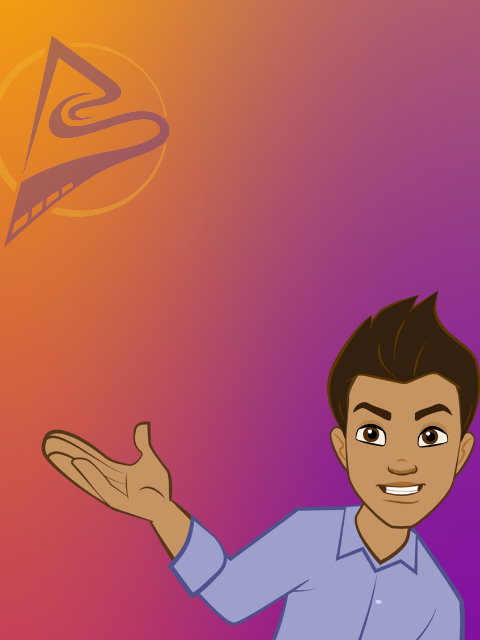
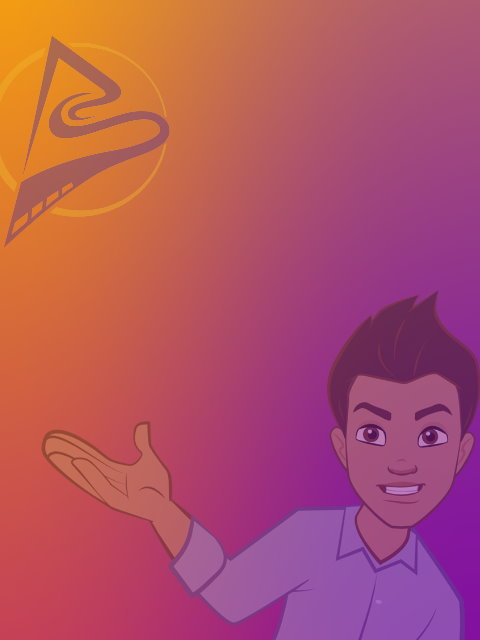
minification, fix responsive laptop

Changed region(s): [[0.0625, 0.4375, 1.0, 1.0]]

diff --git a/style.css b/style.css
@@ -1,0 +1,1 @@
+body,div,html,ul{margin:0;padding:0}body{font-family:myriad-pro,Helvetica,sans-serif;font-size:22px}.h2,h2{margin:0;padding:0}.h2,.h3,.p,h2,h3,li,p{color:#41007d}a{text-decoration:none;color:#2c53ba}li{list-style-type:none}.text-uc{text-transform:uppercase}.site-container{overflow:hidden}.section{display:flex;max-width:90vw;margin:70px auto;flex-direction:column}.section .col-title{width:100%;margin-right:0}.section .col-content{width:100%}.section .col-title .h2{font-size:1.8em;line-height:1.2em;text-transform:uppercase;font-weight:600}.section .col-content h2{font-size:1.7em;line-height:1.2em;margin-bottom:30px}nav{position:absolute;top:40px;left:0;width:100%}nav ul{display:flex;justify-content:center}nav li{padding:12px 30px;list-style-type:none;text-align:center}nav li a{color:#fff;text-transform:uppercase;font-weight:600;letter-spacing:1.5px}nav li a:active,nav li a:focus,nav li a:hover{color:#41007d}.section-hero{max-width:100%;margin-top:0;position:relative;align-items:center;justify-content:center;min-height:90vh;background-image:url(http://royerstudios.education/sc160321/medias/bg-full.jpg);background-size:cover;background-position:top center;background-repeat:no-repeat}.section-hero .welcome-message{text-align:center}.section-hero .welcome-message h1 .welcome{display:inline-block;width:100%;border-top:.5px solid #fffFFFAA;border-bottom:.5px solid #fffFFFAA;text-transform:uppercase;font-size:.7em;color:#fff;font-weight:200;text-align:center;padding:8px}.section-hero .welcome-message h1 .img{display:none}.section-hero .welcome-message p{color:#fff;font-size:1.4em;line-height:1.3em}.section li{margin-bottom:2px}.section-about h2{font-style:italic;font-weight:300;margin-left:-2px}.section-tr .h3{display:inline-block;font-size:1.6em;line-height:1.2em;margin-bottom:25px;font-style:italic}.section-ep .col-title,.section-team .col-title{text-align:center}.section-ep .m2,.section-team .m2{margin-top:10px;margin-bottom:5px}.welcome-message img{max-width:88%}@media only screen and (max-width:767px){nav li{padding:6px 15px}.section .col-title .h2{font-size:1.5em}.section .col-content h2{font-size:1.2em;line-height:1.1em;margin-top:5px;margin-bottom:10px}.section-tr .h3{font-size:1.1em;margin-bottom:10px}.section-ep .col-title,.section-team .col-title{text-align:left}.welcome-message p br{display:none}.section-hero{background-image:url(http://royerstudios.education/sc160321/medias/bg-tablet.jpg);background-size:cover;background-position:top left;min-height:80vh;align-items:end}.section-hero .welcome-message{padding-top:80px;padding-bottom:10px}.section-hero .welcome-message img{margin-bottom:1em}}@media only screen and (max-width:559px){nav{top:15px}nav li a{font-size:16px;line-height:16px}.section-hero{background-image:url(http://royerstudios.education/sc160321/medias/bg-mobile.jpg);background-size:cover;background-position:top left}}@media only screen and (max-width:399px){nav li a{font-size:12px}}@media only screen and (min-width:768px){.section{flex-direction:row}.section .col-title{width:28%;margin-right:1%}.section .col-content{width:71%}.section .col-title .h2{font-size:1.4em;line-height:1.2em}.section .col-content h2{font-size:1.4em;line-height:1.1em;margin-bottom:20px}.section-hero .welcome-message{font-size:20px;padding-bottom:calc(100px - 5vw)}.section-hero .welcome-message img{width:45vw}}@media only screen and (min-width:1440px){.section-hero{background-image:url(http://royerstudios.education/sc160321/medias/bg-full.jpg);background-size:cover;background-position:bottom center;background-repeat:no-repeat;min-height:110vh}.section-hero .welcome-message{font-size:24px;padding-bottom:100px}.section .col-title{width:23%;margin-right:1%}.section .col-content{width:76%}.section .col-title .h2{font-size:1.8em;line-height:1.2em}.section .col-content h2{font-size:1.7em;line-height:1.2em;margin-bottom:30px}}@media (min-width:768px) and (max-width:1248px){.section-hero{background-size:contain;background-position:top left}}

diff --git a/style.min.css b/style.min.css
@@ -1,0 +1,1 @@
+body,div,html,ul{margin:0;padding:0}body{font-family:myriad-pro,Helvetica,sans-serif;font-size:22px}.h2,h2{margin:0;padding:0}.h2,.h3,.p,h2,h3,li,p{color:#41007d}a{text-decoration:none;color:#2c53ba}li{list-style-type:none}.text-uc{text-transform:uppercase}.site-container{overflow:hidden}.section{display:flex;max-width:90vw;margin:70px auto;flex-direction:column}.section .col-title{width:100%;margin-right:0}.section .col-content{width:100%}.section .col-title .h2{font-size:1.8em;line-height:1.2em;text-transform:uppercase;font-weight:600}.section .col-content h2{font-size:1.7em;line-height:1.2em;margin-bottom:30px}nav{position:absolute;top:40px;left:0;width:100%}nav ul{display:flex;justify-content:center}nav li{padding:12px 30px;list-style-type:none;text-align:center}nav li a{color:#fff;text-transform:uppercase;font-weight:600;letter-spacing:1.5px}nav li a:active,nav li a:focus,nav li a:hover{color:#41007d}.section-hero{max-width:100%;margin-top:0;position:relative;align-items:center;justify-content:center;min-height:90vh;background-image:url(http://royerstudios.education/sc160321/medias/bg-full.jpg);background-size:cover;background-position:top center;background-repeat:no-repeat}.section-hero .welcome-message{text-align:center}.section-hero .welcome-message h1 .welcome{display:inline-block;width:100%;border-top:.5px solid #fffFFFAA;border-bottom:.5px solid #fffFFFAA;text-transform:uppercase;font-size:.7em;color:#fff;font-weight:200;text-align:center;padding:8px}.section-hero .welcome-message h1 .img{display:none}.section-hero .welcome-message p{color:#fff;font-size:1.4em;line-height:1.3em}.section li{margin-bottom:2px}.section-about h2{font-style:italic;font-weight:300;margin-left:-2px}.section-tr .h3{display:inline-block;font-size:1.6em;line-height:1.2em;margin-bottom:25px;font-style:italic}.section-ep .col-title,.section-team .col-title{text-align:center}.section-ep .m2,.section-team .m2{margin-top:10px;margin-bottom:5px}.welcome-message img{max-width:88%}@media only screen and (max-width:767px){nav li{padding:6px 15px}.section .col-title .h2{font-size:1.5em}.section .col-content h2{font-size:1.2em;line-height:1.1em;margin-top:5px;margin-bottom:10px}.section-tr .h3{font-size:1.1em;margin-bottom:10px}.section-ep .col-title,.section-team .col-title{text-align:left}.welcome-message p br{display:none}.section-hero{background-image:url(http://royerstudios.education/sc160321/medias/bg-tablet.jpg);background-size:cover;background-position:top left;min-height:80vh;align-items:end}.section-hero .welcome-message{padding-top:80px;padding-bottom:10px}.section-hero .welcome-message img{margin-bottom:1em}}@media only screen and (max-width:559px){nav{top:15px}nav li a{font-size:16px;line-height:16px}.section-hero{background-image:url(http://royerstudios.education/sc160321/medias/bg-mobile.jpg);background-size:cover;background-position:top left}}@media only screen and (max-width:399px){nav li a{font-size:12px}}@media only screen and (min-width:768px){.section{flex-direction:row}.section .col-title{width:28%;margin-right:1%}.section .col-content{width:71%}.section .col-title .h2{font-size:1.4em;line-height:1.2em}.section .col-content h2{font-size:1.4em;line-height:1.1em;margin-bottom:20px}.section-hero .welcome-message{font-size:20px;padding-bottom:calc(100px - 5vw)}.section-hero .welcome-message img{width:45vw}}@media only screen and (min-width:1440px){.section-hero{background-image:url(http://royerstudios.education/sc160321/medias/bg-full.jpg);background-size:cover;background-position:bottom center;background-repeat:no-repeat;min-height:110vh}.section-hero .welcome-message{font-size:24px;padding-bottom:100px}.section .col-title{width:23%;margin-right:1%}.section .col-content{width:76%}.section .col-title .h2{font-size:1.8em;line-height:1.2em}.section .col-content h2{font-size:1.7em;line-height:1.2em;margin-bottom:30px}}@media (min-width:768px) and (max-width:1248px){.section-hero{background-size:contain;background-position:top left}}

diff --git a/gulpfile.js b/gulpfile.js
@@ -1,8 +1,8 @@
 var gulp        = require('gulp');
 var browserSync = require('browser-sync').create();
 var sass        = require('gulp-sass');
-
-
+var cleanCSS = require('gulp-clean-css');
+var rename = require("gulp-rename");
 
 // Compile sass into CSS & auto-inject into browsers
 gulp.task('sass', function() {
@@ -17,11 +17,22 @@ gulp.task('bs', function() {
     server: "./"
   });
 
-  gulp.watch("./_scss/*.scss", gulp.series('sass'));
+  gulp.watch("./_scss/*.scss", gulp.series('sass', 'minify-css', 'rename-minified'));
 
   gulp.watch("./*.html").on('change', browserSync.reload);
-  gulp.watch("./medias/*.css").on('change', browserSync.reload);
+  gulp.watch("./style.min.css").on('change', browserSync.reload);
 });
 
+gulp.task('minify-css', () => {
+  return gulp.src('./medias/*.css')
+    .pipe(cleanCSS({compatibility: 'ie8'}))
+    .pipe(gulp.dest('./'));
+});
+
+gulp.task('rename-minified', () => {
+  gulp.src("./style.css")
+    .pipe(rename("style.min.css"))
+    .pipe(gulp.dest("./"));
+});
 
 gulp.task('watcher', gulp.parallel ('sass', 'bs')); 

diff --git a/medias/style.css b/medias/style.css
@@ -74,7 +74,7 @@ nav {
   justify-content: center;
   min-height: 90vh;
   background-image: url("http://royerstudios.education/sc160321/medias/bg-full.jpg");
-  background-size: contain;
+  background-size: cover;
   background-position: top center;
   background-repeat: no-repeat; }
   .section-hero .welcome-message {
@@ -192,7 +192,7 @@ nav {
 
 @media only screen and (min-width: 1440px) {
   .section-hero {
-    background-image: url("https://royerstudios.education/showcase-tmp-gh783d/medias/bg-full.jpg");
+    background-image: url("http://royerstudios.education/sc160321/medias/bg-full.jpg");
     background-size: cover;
     background-position: bottom center;
     background-repeat: no-repeat;
@@ -212,3 +212,8 @@ nav {
     font-size: 1.7em;
     line-height: 1.2em;
     margin-bottom: 30px; } }
+
+@media (min-width: 768px) and (max-width: 1248px) {
+  .section-hero {
+    background-size: contain;
+    background-position: top left; } }

diff --git a/_scss/_responsive.scss b/_scss/_responsive.scss
@@ -45,7 +45,6 @@
     }
 }
 
-
 @include mq('phablet', max) {     
     nav {
         top:15px;
@@ -96,7 +95,7 @@
 
 @include mq('desktop-wide') {
     .section-hero {
-        background-image: url('https://royerstudios.education/showcase-tmp-gh783d/medias/bg-full.jpg');
+        background-image: url('http://royerstudios.education/sc160321/medias/bg-full.jpg');
         background-size: cover;
         background-position: bottom center;
         background-repeat: no-repeat;
@@ -121,4 +120,13 @@
             margin-bottom:30px;
         }
     }
+
+}
+
+
+@media (min-width:768px) and (max-width:1248px ) {
+    .section-hero {
+        background-size: contain;
+        background-position: top left;
+    }    
 }

diff --git a/index.html b/index.html
@@ -15,7 +15,7 @@
         <meta name="twitter:card" content="Serving schools with innovative medias-arts based programs since 1990">
 
         <link rel="stylesheet" href="https://use.typekit.net/esc3thr.css">
-        <link rel="stylesheet" href="./medias/style.css">
+        <link rel="stylesheet" href="./style.min.css?v=2">
 
     </head>
     <body>

diff --git a/_scss/_page.scss b/_scss/_page.scss
@@ -9,7 +9,7 @@
     min-height: 90vh;
 
     background-image: url('http://royerstudios.education/sc160321/medias/bg-full.jpg');
-    background-size: contain;
+    background-size: cover;
     background-position: top center;
     background-repeat: no-repeat;
 

diff --git a/_scss/_variables.scss b/_scss/_variables.scss
@@ -8,4 +8,3 @@ $color-linkh-primary: #41007D;
 
 $color-light: #FFF;
 $color-dark: #000;
-
